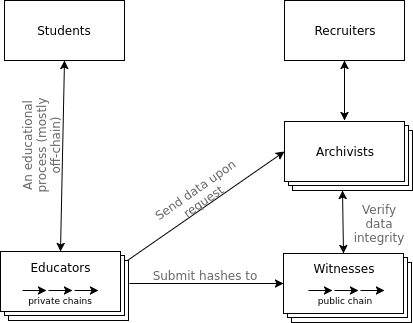
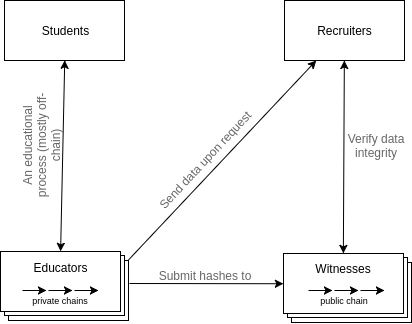
[TMP-7] Remove notion of Archivists

diff --git a/src/yellowpaper/chapters/02-architecture.tex b/src/yellowpaper/chapters/02-architecture.tex
@@ -23,7 +23,7 @@ Students get access to the platform through web and mobile applications. Using t
 \end{enumerate}
 
 Making the Educators' chains private opens the possibility for Educators to tamper with the data in their chains. To overcome this issue and make the private transactions publicly verifiable, we introduce the second, public, layer of the blockchain. The public part of the network consists
-of Witnesses – the special entities that witness the fact that a private block was produced by an  Educator.
+of Witnesses –- the special entities that witness the fact that a private block was produced by an Educator.
 They do so by writing the authentication information of a private block into the public chain, which is used in the future by an arbitrary Verifier to substantiate a proof of transaction inclusion given to it by a Student or an Educator. Witnesses also process public information issued by the Educators, such as announcements that an Educator has started or stopped offering a course in a particular discipline. The Witnesses agree on which public blocks are valid using the specified consensus rules.
 
-Archivists are entities that provide an interface for the Recruiters to communicate with the platform. The Archivists act like a bridge between the Recruiters and the Educators: they choose the institutes that are relevant for the particular request, orchestrate the data disclosure and provide the evidence on the validity of that data. They obtain this evidence by communicating with Witnesses and comparing the headers of the private data blocks with the headers stored in the public Witnesses' chain.
+The Recruiters are the entities interested in gathering data about students from educational institutions. They buy this data from Educators using a secure data disclosure protocol, described in detail in section \ref{sec:DataDisclosure}. Validity and security of every data trade is also ensured by Witnesses, because corresponding transactions and actions of each party are also stored in public blockchain.

diff --git a/src/yellowpaper/chapters/03-implementation/certification.tex b/src/yellowpaper/chapters/03-implementation/certification.tex
@@ -4,6 +4,9 @@ The permissionless nature of our public chain leads to the ability for malevolen
 
 These issues currently can not be solved solely on the protocol level: they require an external source of information to determine the physical existence and the reputation of an Educator. Although we leave the public chain open for the Educators to submit their private block headers, we propose to add a separate layer of reputation and trust on top of the protocol.
 
-We do so by introducing the Archivists -- the entities that join the network with the approval from another Archivist. Their main role is to add a trust level above just the raw protocol: they store the certificates of the Educational institutes and have the right to revoke those certificates. Furthermore, the Archivists are the entities responsible for determining the ratings of the particular Educators. The Archivists base their rating on the off-chain sources of information and gain authority for providing valid ratings and performing all the necessary compliance procedures for the Educators.
-
-While in theory the Recruiters can query the Educators directly and initiate a data disclosure request, they are generally discouraged to do so. We expect the Recruiters to be willing to pay extra fees to the Archivists for certificate validation and ranking of the Students depending on the Educators' ratings and other factors upon request. We describe the data disclosure process in detail in section \ref{sec:DataDisclosure}
+We do so by disallowing a new Educator to join the network without an approval
+from another Educator. Educators are supposed to rate another Educators basing
+on off-chain sources of information -- such as a publication on an official site
+of a university, which claims that given Disciplina public key is issued by this
+university. By approving each other, Educators form a \textit{web of trust}.
+Ratings of Educators are backed up by ratings of Educators which trust them.

diff --git a/src/yellowpaper/chapters/04-future-work.tex b/src/yellowpaper/chapters/04-future-work.tex
@@ -1,2 +1,15 @@
 \section{Future work}
-The current architecture of the Disciplina platform heavily relies on the external entities -- the Archivists -- to add a layer of trust and provide ratings for the educational institutions and private teachers. However, it is possible that such external entities would provide unfair ratings: for example, they could ignore the existence of private teachers, thus making their contributions less valuable. The reliance on the third parties can be avoided if we carefully integrate the algorithm of rating computation into our architecture. The ratings would be based on the on-chain sources of information and provide equal opportunities for both private teachers and large educational institutions. However, integrating the rating system into the arhitecture poses several design challenges that we have to solve.
+The current architecture of the Disciplina platform heavily relies on the
+fact that a new Educator should gain acceptance from other Educator to join the
+network, and ratings of a new Educator are determined by other Educators
+accepting it. However, it is possible that other Educators would provide unfair ratings: for example,
+they could ignore the existence of private teachers, thus making their
+contributions less valuable, or purposefully lower the ratings of competitors
+entering the network.
+
+Such problems can be avoided if we carefully integrate the
+algorithm of rating computation into our architecture. The ratings would be
+based on the on-chain sources of information and provide equal opportunities for
+both private teachers and large educational institutions. However, integrating
+the rating system into the arhitecture poses several design challenges that we
+have to solve.

diff --git a/src/yellowpaper/chapters/05-conclusion.tex b/src/yellowpaper/chapters/05-conclusion.tex
@@ -1,7 +1,14 @@
 \section{Conclusion}
-In this paper we presented the architecture of the Disciplina platform. The described architecture provides a way to store educational records in the blockchain while preserving the privacy of these records. The concepts of private chains and a digital CV make it possible to verify the educational records of a particular person. The Archivist entities provide reputational semantics to the educational institutes listed in the digital CVs.
+In this paper we presented the architecture of the Disciplina platform. The
+described architecture provides a way to store educational records in the
+blockchain while preserving the privacy of these records. The concepts of
+private chains and a digital CV make it possible to verify the educational
+records of a particular person. Educational institutions are connected in a web
+of trust to provide credibility for each institution and, consequently, to
+digital CVs of their alumni.
 
-We developed our platform not only as the source of trust, but also as a database of the students from all over the world. We believe that the data that is stored in the system has a value in itself. The need to disclose this data was also addressed in the paper: we described a mechanism for the fair data trade and the measures against the secondary market creation.
-
-
-
+We developed our platform not only as the source of trust, but also as a
+database of the students from all over the world. We believe that the data that
+is stored in the system has a value in itself. The need to disclose this data
+was also addressed in the paper: we described a mechanism for the fair data
+trade and the measures against the secondary market creation.

diff --git a/src/rating-system/main.tex b/src/rating-system/main.tex
@@ -28,9 +28,15 @@ Serokell, \href{https://serokell.io}{\texttt{https://serokell.io}}
 \maketitle
 
 \section*{Rationale}
-The current architecture of the platform relies on \textit{third parties} called Archivists to provide information on the existence of the Educators and the quality of education. However, we suppose that these third parties would tend to rate large educational institutions and ignore private teachers and small schools (see e. g. \href{https://www.timeshighereducation.com/world-university-rankings}{Times Higher Education} ratings). Thus, it worth examining whether we can stop relying on the Archivists.
+The current architecture of the platform relies on connecting the Educators in a
+\textit{web of trust} to ensure the existence of the Educators and the quality
+of education. We suppose that in the beginning there would be an initial clique
+of large Educators, backed up by developers, which will later add another
+Educators to their web of trust. However, we suppose that these large Educators would
+tend ignore private teachers and small schools. Thus, it worth examining whether
+we can allow new Educators to join the network without approval of existing Educators.
 
-With Archivist nodes being removed, the following security concerns arise:
+However, removing this constraint leads to the following security concerns:
 \begin{itemize}
 \item A malevolent student can forge educational records by creating a fake Educator node.
 \item A corrupted Educator can create fake students to increase the size of the dataset.
@@ -63,6 +69,5 @@ Moreover, a \textit{grade} is a biased measure of students' knowledge. However, 
   \end{itemize}
 
 \end{enumerate}
-
 
 \end{document}

diff --git a/src/yellowpaper/chapters/03-implementation/private-chain.tex b/src/yellowpaper/chapters/03-implementation/private-chain.tex
@@ -46,7 +46,10 @@ M_{priv} = \MerkleTree(T_{priv}^i)
 
 The Educator's private block body comprises an ordered set of Merkle-authenticated transactions. These transactions are indexed so that the Educator can quickly find a particular transaction that satisfies some predicate.
 
-The private block header consists of the transactions Merkle root along with the previous block hash and the information on the Activity Type Graph modifications (ATG delta). The \textit{ATG delta} part allows the Educators to inform the Witnesses and the Archivists of the modifications to the courses they teach.
+The private block header consists of the transactions Merkle root along with the
+previous block hash and the information on the Activity Type Graph modifications
+(ATG delta). The \textit{ATG delta} part allows the Educators to inform the
+Witnesses of the modifications to the courses they teach.
 
 An Educator collects private transactions into the blocks with no more than $K$ transactions per each block. After that, an Educator submits signed block header to the Witnesses so that private transactions can be confirmed by the public chain. Thus, the private blocks form a publicly verifiable chain of events.
 

diff --git a/src/yellowpaper/chapters/03-implementation/activity-type-graph.tex b/src/yellowpaper/chapters/03-implementation/activity-type-graph.tex
@@ -1,6 +1,6 @@
 \subsection{Activity Type Graph}
 \label{sec:ATG}
-When a Recruiter makes a request to one of the Archivists, the Archivist has to somehow choose the relevant Educators. Moreover, when an Educator discloses the data, it has to provide as minimal set of entries as possible. This set has to be verifiable, which means that the Educator provides the proof of the data validity along with the data being disclosed.
+When a Recruiter makes a request to one of the Educators, the Educator has to provide as minimal set of entries as possible. This set has to be verifiable, which means that the Educator provides the proof of the data validity along with the data being disclosed.
 
 In order to achieve these goals, we divide the data that the Educators store into atomic Activity Types. Each Educator maintains a journal of transactions per each Activity Type that the Educator offers.
 
